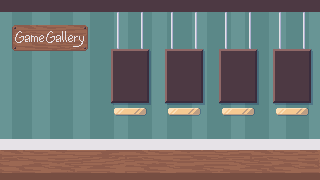
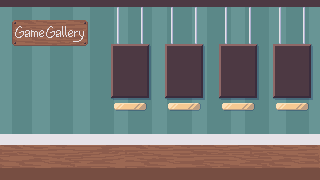
changing background again

diff --git a/src/scenes/Game.js b/src/scenes/Game.js
@@ -46,8 +46,8 @@ export class Game extends Phaser.Scene
         bg.texture.setFilter(Phaser.Textures.FilterMode.NEAREST);
         bg.z = -100
 
-        this.playerStart = { x: 0, y: 484 };
-        this.meStart = { x: 324, y: 456 };
+        this.playerStart = { x: 0, y: 464 };
+        this.meStart = { x: 324, y: 436 };
     }
 
     initGameUi ()
@@ -113,17 +113,17 @@ export class Game extends Phaser.Scene
 
     initPosterSprites ()
     {
-        this.nolb = this.physics.add.staticImage(520, 304, 'nolb');
+        this.nolb = this.physics.add.staticImage(520, 284, 'nolb');
         this.nolb.scale = 4;
         this.nolb.texture.setFilter(Phaser.Textures.FilterMode.NEAREST);
         this.nolb.refreshBody();
 
-        this.paddle = this.physics.add.staticImage(736, 304, 'paddle');
+        this.paddle = this.physics.add.staticImage(736, 284, 'paddle');
         this.paddle.scale = 4;
         this.paddle.texture.setFilter(Phaser.Textures.FilterMode.NEAREST);
         this.paddle.refreshBody();
 
-        this.combo = this.physics.add.staticImage(952, 304, 'combo');
+        this.combo = this.physics.add.staticImage(952, 284, 'combo');
         this.combo.scale = 4;
         this.combo.texture.setFilter(Phaser.Textures.FilterMode.NEAREST);
         this.combo.refreshBody();
